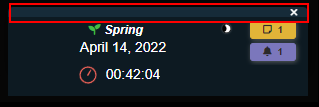
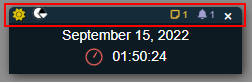
Added an FAQ Page. Updated some compact view images. Fixed a bug where corrupted configurations would still count as loaded.

diff --git a/src/classes/calendar/calendar-manager.ts b/src/classes/calendar/calendar-manager.ts
@@ -90,7 +90,7 @@ export default class CalendarManager {
         if(cal && cal.timeKeeper.getStatus() !== TimeKeeperStatus.Started){
             MainApplication.updateApp();
         }
-        return calendars.length;
+        return Object.keys(this.calendars).length;
     }
 
     public loadActiveCalendar(): void {

diff --git a/docs/faq.md b/docs/faq.md
@@ -1,0 +1,69 @@
+Below are a few common issues / questions and steps on how to fix them!
+
+- [Can't Change Calendar Settings / Can't Edit Notes](#can39t-change-calendar-settings--can39t-edit-notes)
+- [Unable to Update to the Latest Version / Stuck on Version 1.3.75](#unable-to-update-to-the-latest-version--stuck-on-version-1375)
+- [Where Did the Toolbar Button Go?](#where-did-the-toolbar-button-go)
+- [Why Is Simple Calendar not in Sync with X module/system?](#why-is-simple-calendar-not-in-sync-with-x-modulesystem)
+- [How do I set the time to be a 12-hour clock instead of a 24-hour clock?](#how-do-i-set-the-time-to-be-a-12-hour-clock-instead-of-a-24-hour-clock)
+
+## Can't Change Calendar Settings / Can't Edit Notes
+
+This issue appears after updating to Foundry v10+ from Foundry v9 and has a simple fix.
+
+1. **Check the version of Simple Calendar**: Due to an update bug Simple Calendar can get stuck on version 1.3.75. If you are on this version follow the rest of the steps.
+2. **Uninstall Simple Calendar**: In the module management section of FoundryVTT uninstall the module. This is a safe procedure as no data (notes, configuration settings) is deleted when uninstalling.
+3. **Reinstall Simple Calendar**: In the module management section of FoundryVTT reinstall the module, the new version of Simple Calendar should be 2+.
+4. **Relaunch Your World**: Go back into the world that was having the problem, you will see a dialog informing you of a data migration. Once that has finished all your information will be available, the module will work, and you are ready to use the calendar!
+
+
+## Unable to Update to the Latest Version / Stuck on Version 1.3.75
+
+This is due to an update bug when on version 1.3.75 or earlier. Follow these steps to get the latest version:
+
+1. **Uninstall Simple Calendar**: In the module management section of FoundryVTT uninstall the module. This is a safe procedure as no data (notes, configuration settings) is deleted when uninstalling.
+2. **Reinstall Simple Calendar**: In the module management section of FoundryVTT reinstall the module, the new version of Simple Calendar should be 2+.
+3. **Relaunch Your World**: Go back into the world that was having the problem, you will see a dialog informing you of a data migration. Once that has finished all your information will be available, the module will work, and you are ready to use the calendar!
+
+## Where Did the Toolbar Button Go?
+
+In versions 1.x.x of Simple Calendar the toolbar button was under "Token Controls".
+
+In versions 2.x.x of Simple Calendar the toolbar button was moved to be under "Journal Notes".
+There is also a button to open Simple Calendar under the Configure Settings menu.
+
+This move was made as Simple Calendar does not have anything specific to do with tokens and is largely a journal tool, so it makes more sense for it to live there.
+
+
+## Why Is Simple Calendar not in Sync with X module/system?
+
+Simple Calendar does its very best to stay synced with all other time modules and systems that provide their own clocks/calendars, sometimes though it isn't perfect.
+
+One setting to make sure is set correctly, regardless of module or system, is to make sure the [Game World Time Integration](https://simplecalendar.info/pages/calendar-configuration/index/general-settings.html#game-world-time-integration) setting is set to "Mixed". Almost everyone will need that setting set to Mixed, the other options are for very specific use cases.
+
+Listed below are some other modules and systems that get asked about:
+
+### Pathfinder 2E
+
+Pathfinder 2E implements its own calendaring solution that is not easily integrated with. In most instances Simple Calendar will sync correctly with the PF2E world clock, provided the configuration setting ["Pathfinder 2E: World Time Sync"](https://simplecalendar.info/pages/calendar-configuration/index/general-settings.html#pathfinder-2e-world-clock-sync) is enabled in Simple Calendar.
+
+There are a few edge cases where time in Simple Calendar will be off by a day from the PF2E World Clock. This has to do with how each addresses leap years and is not easily fixed from the side of PF2E.
+
+### SmallTime
+
+Simple Calendar and SmallTime should work together correctly. If Simple Calendar is installed SmallTime should automatically switch to using Simple Calendar as its source for date and time.
+
+### SmallTime and Pathfinder 2E
+
+If the time takes place before the Pathfinder 2E's epoch (The date the world was created, resetting the world clock will show the exact date). Simple Calendar and SmallTime will be off by 1 minute. This is a known issue with SmallTime.
+
+
+## How do I set the time to be a 12-hour clock instead of a 24-hour clock?
+
+Simple Calendar offers a very customizable way to change how the time and date are displayed, all details on how you can customize the display can be found [here](https://simplecalendar.info/pages/calendar-configuration/index/display-options.html).
+
+For a quick setting to a 12-hour clock though you can follow these steps:
+
+1. Open up the Simple Calendar configuration window.
+2. Navigate to the calendar's "Display Options" settings.
+3. In the field called "Time Format" replace with this `hh:mm:ss A`.
+4. Save the configuration, now the clock will be displayed in a 12-hour format!

diff --git a/CHANGELOG.md b/CHANGELOG.md
@@ -1,9 +1,9 @@
 # Change Log
 
-## 2.1.69 - Refreshed Compact Display and Bug Fixes
+## 2.1.70 - Refreshed Compact Display and Bug Fixes
 
-![](https://img.shields.io/badge/release%20date-January%2019%2C%202023-blue)
-![GitHub release](https://img.shields.io/github/downloads-pre/vigoren/foundryvtt-simple-calendar/v2.1.69/module.zip)
+![](https://img.shields.io/badge/release%20date-January%2020%2C%202023-blue)
+![GitHub release](https://img.shields.io/github/downloads-pre/vigoren/foundryvtt-simple-calendar/v2.1.70/module.zip)
 
 ### Refreshed Compact Display
 
@@ -42,6 +42,13 @@ A preview of all themes for the new compact mode:
 - Fixed a few style issues with the Forbidden Lands theme.
 - Fixed an issue with the Eclipse Phase system where note pages couldn't be added (Style change hide the interface).
 - Fixed an issue where "When Leap Years Happen" could be set to 0 or a negative value, which doesn't make sense and would cause issues. If the value is set to something not valid the leap year rule will be set to None.
+- Fixed a bug where loading of corrupt calendar configurations would prevent the module from working at all.
+
+### API Changes
+
+- Added a new function [`SimpleCalendar.api.isOpen()`](https://simplecalendar.info/functions/SimpleCalendar.api.isOpen.html) that will return a boolean if the calendar is open or closed.
+- Added a new hook [`SimpleCalendar.Hooks.Init`](https://simplecalendar.info/variables/SimpleCalendar.Hooks.Init.html). This hook fires as Simple Calendar is initializing but before the module is fully ready to use.
+- Added a new function, [`SimpleCalendar.api.addSidebarButton`](https://simplecalendar.info/functions/SimpleCalendar.api.addSidebarButton.html), for adding custom buttons to the right of the calendar.
 
 ### Translation Updates
 
@@ -54,11 +61,10 @@ Thank you to the follow people for making updates to Simple Calendars translatio
 - [Novella Locritani](https://weblate.foundryvtt-hub.com/user/Nuvvola/) (Italian)
 - [Davide Lamberti](https://weblate.foundryvtt-hub.com/user/leWebslinger/) (Italian)
 
-### API Changes
+### Documentation Changes
 
-- Added a new function [`SimpleCalendar.api.isOpen()`](https://simplecalendar.info/functions/SimpleCalendar.api.isOpen.html) that will return a boolean if the calendar is open or closed.
-- Added a new hook [`SimpleCalendar.Hooks.Init`](https://simplecalendar.info/variables/SimpleCalendar.Hooks.Init.html). This hook fires as Simple Calendar is initializing but before the module is fully ready to use.
-- Added a new function, [`SimpleCalendar.api.addSidebarButton`](https://simplecalendar.info/functions/SimpleCalendar.api.addSidebarButton.html), for adding custom buttons to the right of the calendar.
+- Added a new [FAQ](https://simplecalendar.info/pages/site/docs/faq.html) page to help answer some commonly asked questions!
+- Updated images of the compact view.
 
 <hr/>
 
